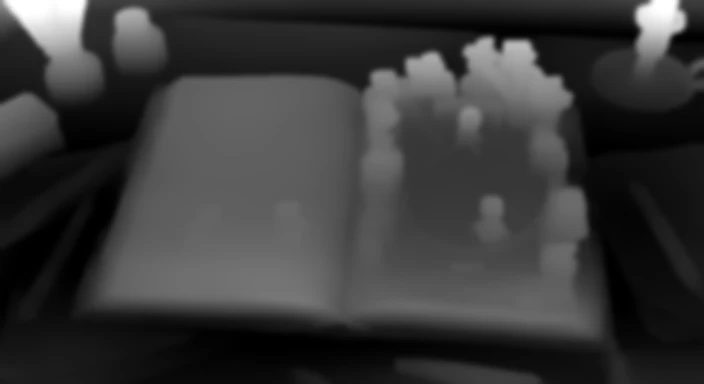
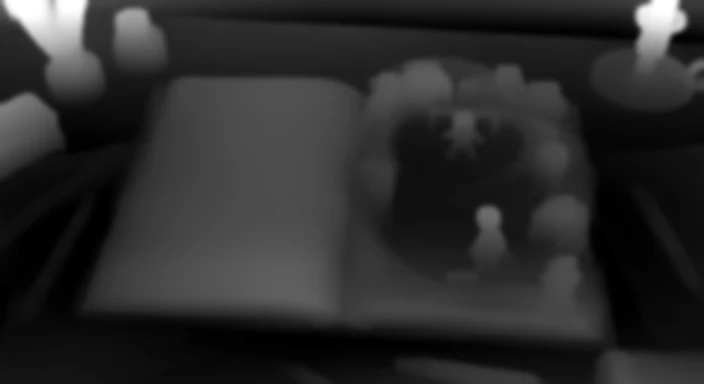
Upside-Down World p3 (first text): new picture from the GIF, clean 2x upscale, smooth live ball arc past Sam into the trees, dust
Claude-Session: https://claude.ai/code/session_01BFtifSTdmWYaAK88ECs5PE

diff --git a/books/upside-down-world/sprite.js b/books/upside-down-world/sprite.js
@@ -1,2 +1,2 @@
 /* flying objects drawn over a still page: img = transparent sprite, rs = ball radius in the sprite, path = [x,y,radius] per frame at 24 fps in 1408x768 picture pixels */
-window.SPRITES={p01:{img:"img/p01-ball.webp",size:260,rs:104.5,path:[[951.0,390.0,18.5],[946.4,377.6,21.9],[944.8,373.2,22.6],[941.8,364.8,24.4],[938.6,356.8,26.0],[935.2,349.1,27.6],[931.6,342.1,29.2],[927.9,335.5,30.7],[923.8,329.1,32.0],[919.7,322.8,33.5],[915.7,316.9,34.9],[911.8,311.1,36.2],[907.8,305.5,37.6],[903.9,300.1,38.9],[899.8,295.1,40.2],[895.8,290.0,41.2],[891.4,285.1,42.2],[887.2,280.3,43.2],[882.9,275.7,44.3],[878.9,271.0,45.3],[874.9,266.6,46.5],[871.2,262.1,47.8],[867.5,257.7,49.1],[863.9,253.4,50.5],[860.2,249.1,51.8],[856.2,244.7,53.0],[852.4,240.6,54.2],[848.3,236.6,55.3],[843.9,232.6,56.5],[839.6,228.6,57.6],[835.4,224.8,58.6],[830.9,221.0,59.7],[826.3,217.3,60.7],[821.9,213.7,61.5],[817.4,210.1,62.4],[812.8,206.8,63.6],[808.1,203.5,64.5],[803.4,200.3,65.6],[798.8,196.9,66.6],[794.1,193.7,67.7],[789.4,190.4,68.8],[784.8,187.1,70.0],[780.1,183.8,71.3],[775.3,180.6,72.7],[770.3,177.4,74.1],[765.1,174.3,75.5],[759.8,171.1,77.0],[754.7,167.8,78.5],[749.2,164.6,80.0],[743.7,161.4,81.3],[738.1,157.9,82.7],[732.6,154.6,84.0]]},p02:{img:"img/p01-ball.webp",size:260,rs:104.5,kind:"lob",from:[1008,538,9],to:[1040,212,4.2],apex:170,rig:[{img:"img/p02-leg.webp",box:[960,515,60,60],pivot:[987,531],depth:[988,545],motion:"leg"}]},p03:{rig:[{img:"img/p03-leo.webp",box:[906,462,52,56],pivot:[932,504],depth:[932,495],motion:"headL"},{img:"img/p03-sam.webp",box:[946,475,52,56],pivot:[972,515],depth:[972,505],motion:"headS"}]},p03s:{img:"img/p01-ball.webp",size:260,rs:104.5,kind:"hops",start:[849,233,15],hops:[[990,214,11,60],[1022,236,9,26],[1044,250,7,9]],to:[1044,250,7]}};
+window.SPRITES={p01:{img:"img/p01-ball.webp",size:260,rs:104.5,path:[[951.0,390.0,18.5],[946.4,377.6,21.9],[944.8,373.2,22.6],[941.8,364.8,24.4],[938.6,356.8,26.0],[935.2,349.1,27.6],[931.6,342.1,29.2],[927.9,335.5,30.7],[923.8,329.1,32.0],[919.7,322.8,33.5],[915.7,316.9,34.9],[911.8,311.1,36.2],[907.8,305.5,37.6],[903.9,300.1,38.9],[899.8,295.1,40.2],[895.8,290.0,41.2],[891.4,285.1,42.2],[887.2,280.3,43.2],[882.9,275.7,44.3],[878.9,271.0,45.3],[874.9,266.6,46.5],[871.2,262.1,47.8],[867.5,257.7,49.1],[863.9,253.4,50.5],[860.2,249.1,51.8],[856.2,244.7,53.0],[852.4,240.6,54.2],[848.3,236.6,55.3],[843.9,232.6,56.5],[839.6,228.6,57.6],[835.4,224.8,58.6],[830.9,221.0,59.7],[826.3,217.3,60.7],[821.9,213.7,61.5],[817.4,210.1,62.4],[812.8,206.8,63.6],[808.1,203.5,64.5],[803.4,200.3,65.6],[798.8,196.9,66.6],[794.1,193.7,67.7],[789.4,190.4,68.8],[784.8,187.1,70.0],[780.1,183.8,71.3],[775.3,180.6,72.7],[770.3,177.4,74.1],[765.1,174.3,75.5],[759.8,171.1,77.0],[754.7,167.8,78.5],[749.2,164.6,80.0],[743.7,161.4,81.3],[738.1,157.9,82.7],[732.6,154.6,84.0]]},p02:{img:"img/p01-ball.webp",size:260,rs:104.5,kind:"lob",from:[1008,538,9],to:[1040,212,4.2],apex:170,rig:[{img:"img/p02-leg.webp",box:[960,515,60,60],pivot:[987,531],depth:[988,545],motion:"leg"}]},p03:{rig:[{img:"img/p03-leo.webp",box:[906,462,52,56],pivot:[932,504],depth:[932,495],motion:"headL"},{img:"img/p03-sam.webp",box:[946,475,52,56],pivot:[972,515],depth:[972,505],motion:"headS"}]},p03s:{img:"img/p01-ball.webp",size:260,rs:104.5,kind:"hops",ground:true,rest:1.6,start:[920.3,488.6,14.5],du:[1.25,.42,.3],grow:.5,bend:-62,hops:[[896,197,9.5,175],[892,187,8.5,15],[879,181,7.5,6]],to:[879,181,7.5]}};

diff --git a/books/upside-down-world/index.html b/books/upside-down-world/index.html
@@ -267,14 +267,14 @@ function loadSpr(n){if(SPR[n])return SPR[n];const d=(window.SPRITES||{})[n];if(!
 const CY={rest:1.6,fly:2.4,hold:.6};
 function sprState(d,tt){
   if(d.kind==='hops'){
-    const R0=1.2,V=.5,Z=.9,A=.6,DU=[.8,.45,.32],FT=DU[0]+DU[1]+DU[2],T=R0+FT+V+Z+A;tt=((tt%T)+T)%T;const s0=d.start,ex=(a,b,u)=>a+(b-a)*u,L=d.hops[d.hops.length-1];
+    const R0=d.rest||1.2,V=.5,Z=.9,A=.6,DU=d.du||[.8,.45,.32],G=d.ground?0:24,GR=d.grow||0,FT=DU[0]+DU[1]+DU[2],T=R0+FT+V+Z+A;tt=((tt%T)+T)%T;const s0=d.start,ex=(a,b,u)=>a+(b-a)*u,L=d.hops[d.hops.length-1];
     let x=s0[0],y=s0[1],r=s0[2],ang=0,mv=false,al=1,puff=null,rest=false,lift=0,gy=s0[1];
-    if(tt<R0){rest=true;y+=Math.sin(tt*2.6)*1.5;gy=s0[1]+24;lift=24;}
+    if(tt<R0){rest=true;if(!d.ground)y+=Math.sin(tt*2.6)*1.5;gy=s0[1]+G;lift=G;}
     else if(tt<R0+FT){let u=tt-R0,i=0;while(i<2&&u>DU[i]){u-=DU[i];i++;}u/=DU[i];const a=i?d.hops[i-1]:s0,b=d.hops[i],k=4*u*(1-u);
-      const g0=i?a[1]:a[1]+24;gy=ex(g0,b[1],u);lift=b[3]*k+(i?0:24*(1-u));x=ex(a[0],b[0],u);y=gy-lift;r=ex(a[2],b[2],u);ang=(i+u)*2.2;mv=true;}
+      const g0=i?a[1]:a[1]+G;gy=ex(g0,b[1],u);lift=b[3]*k+(i?0:G*(1-u));x=ex(a[0],b[0],u)+(i?0:(d.bend||0)*k);y=gy-lift;r=ex(a[2],b[2],u)*(1+(i?0:GR*k));ang=(i+u)*2.2;mv=true;}
     else if(tt<R0+FT+V){const v=(tt-R0-FT)/V;x=L[0];gy=L[1];y=L[1]+5*v;r=L[2]*(1-.7*v);al=1-v;puff=v*V;ang=6.6;}
     else if(tt<R0+FT+V+Z){al=0;x=L[0];y=L[1];gy=y;r=1;}
-    else{const v=(tt-R0-FT-V-Z)/A;al=v*v*(3-2*v);gy=y+24;lift=24;}
+    else{const v=(tt-R0-FT-V-Z)/A;al=v*v*(3-2*v);gy=y+G;lift=G;}
     return {x,y,r,ang,mv,rest,hit:null,al,puff,sh:[x+r*.15,gy+r*.62,Math.max(0,1-lift/230)]};}
   if(d.kind==='lob'){
     const R0=2.1,F=1.9,V=.6,Z=1.0,A=.7,T=R0+F+V+Z+A;tt=((tt%T)+T)%T;const f=d.from,e=d.to,ex=(a,b,u)=>a+(b-a)*u;

diff --git a/books/upside-down-world/story.js b/books/upside-down-world/story.js
@@ -6,7 +6,7 @@ window.STORY={title:"The Upside-Down World",author:"M. A. Mafodh",pages:[
  "Leo kicked the bright red soccer ball hard, sending it soaring through the warm summer air. \"I'm the best striker in the whole world!\" he yelled."]},
 {img:"p02",wind:2.3,dust:true,hair:[925,236,28,19],box:[362,190,700,405],parts:[
  "His little brother Sam giggled, his blond hair flopping into his eyes. \"No way! I'm the best goalie! You can't get it past me!\" He puffed out his six-year-old chest, standing guard in front of the goal post."]},
-{img:"p03s",sprite:"p03s",wind:true,box:[362,190,700,405],parts:[
+{img:"p03s",sprite:"p03s",wind:true,dust:true,box:[362,190,700,405],parts:[
  "The ball arced high, too high. It sailed past Sam's reach and bounced once, twice, then disappeared into the dark space between the gnarled roots of a huge, ancient oak tree at the edge of the park."]},
 {img:"p03",box:[362,190,628,385],parts:[
  "\"Oops,\" Leo said, his shoulders slumping. Sam crept toward the tree. \"Leo,\" he whispered, his eyes wide. \"That tree looks... spooky.\""]},
